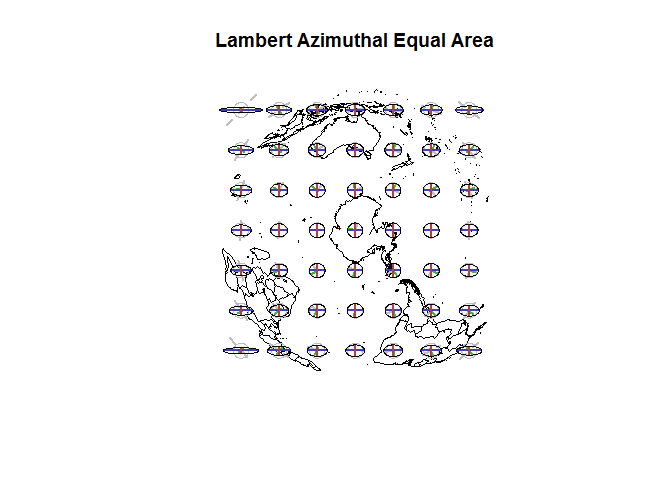
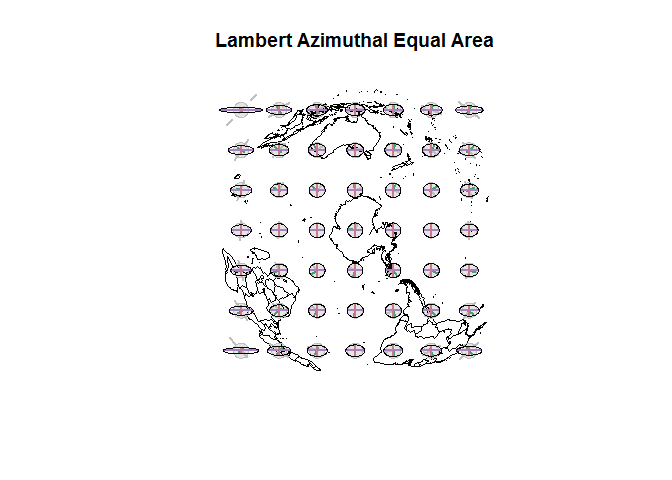
new colours, plot method

diff --git a/README.md b/README.md
@@ -25,7 +25,6 @@ Can be installed with
 devtools::install_github("mdsumner/tissot")
 ```
 
-
 Minimal example
 ===============
 
@@ -67,6 +66,7 @@ Polar example
  library(tissot)
 library(rgdal)
 library(maptools)
+#> Checking rgeos availability: TRUE
 data(wrld_simpl)
 prj <- function(z, proj.in, proj.out) {
   z.pt <- SpatialPoints(coords=matrix(z, ncol=2), proj4string=proj.in)
@@ -75,23 +75,17 @@ prj <- function(z, proj.in, proj.out) {
 }
 library(raster)
 
-buildandplot <- function(data, title = "", scale = 5e5) {
+buildandplot <- function(data, title = "", scale = 5e5, nr = 7, nc = 7) {
   ## grid of points
-  gr <- rasterToPoints(raster(data, nrow = 7, ncol = 7), spatial = TRUE)
-  grll <- spTransform(gr, CRS(projection(wrld_simpl)))
+  gr <- rasterToPoints(raster(data, nrow = nr, ncol = nc), spatial = TRUE)
+  grll <- spTransform(gr, CRS("+proj=longlat +ellps=WGS84"))
   tis <- vector("list", length(gr))
   for (i in seq_along(tis)) tis[[i]] <- tissot(coordinates(grll)[i, 1], coordinates(grll)[i, 2], prj,  
                                                proj.in = CRS(projection(wrld_simpl)), proj.out = projection(data))
 plot(data, main = title)
 for (j in seq_along(tis)) {
-  i <- indicatrix(tis[[j]], scale = scale, n = 71)
-  polygon(i$base, col=rgb(0, 0, 0, .025), border="Gray")
-  lines(i$d.lambda, lwd=2, col="Gray", lty=2)
-  lines(i$d.phi, lwd=2, col=rgb(.25, .7, .25), lty=2)
-  lines(i$axis.major, lwd=2, col=rgb(.25, .25, .7))
-  lines(i$axis.minor, lwd=2, col=rgb(.7, .25, .25))
-  lines(i$outline, asp=1, lwd=1)
-  
+  indi <- indicatrix(tis[[j]], scale = scale, n = 71)
+  plot(indi, add = TRUE)
 }
 invisible(NULL)
 }
